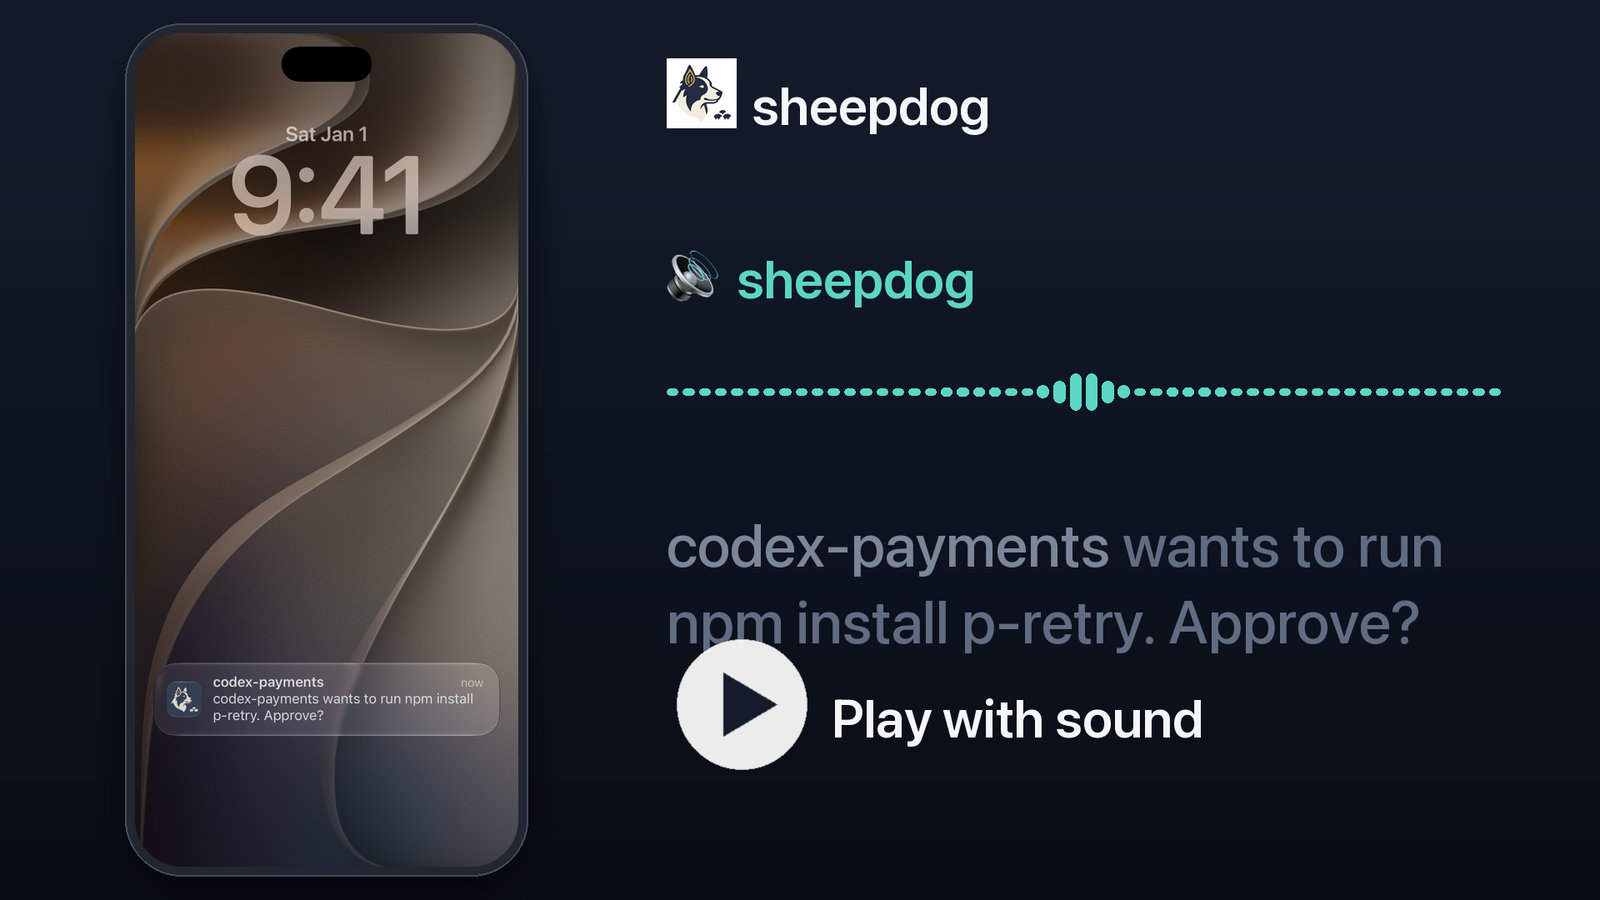
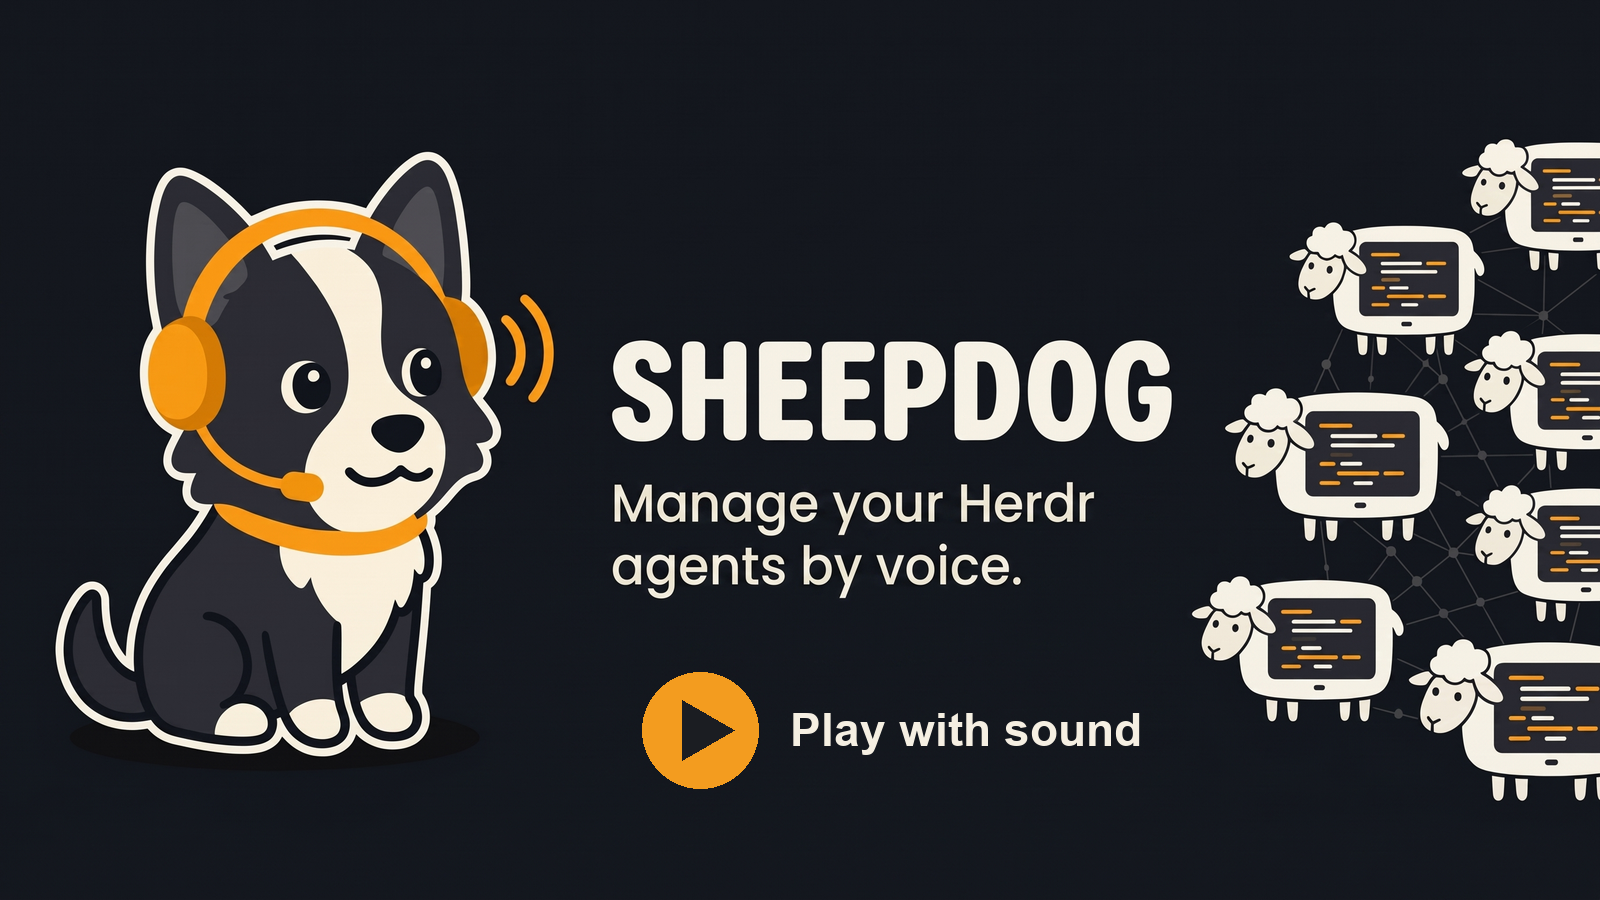
feat(brand): README and repo front door (brand refresh B)

diff --git a/README.md b/README.md
@@ -1,23 +1,25 @@
 <p align="center">
   <picture>
-    <source media="(prefers-color-scheme: dark)" srcset="https://github.com/kccarlos/herdr-sheepdog/raw/main/assets/logo-transparent.svg">
-    <img src="https://github.com/kccarlos/herdr-sheepdog/raw/main/assets/logo-solid.svg" alt="herdr-sheepdog logo" width="160" height="160">
+    <source media="(prefers-color-scheme: dark)" srcset="assets/brand/logo/sheepdog-logo-color.svg">
+    <img src="assets/brand/logo/sheepdog-logo-mono-ink.svg" alt="sheepdog logo" width="120" height="120">
   </picture>
 </p>
 
+<p align="center"><strong>sheepdog</strong></p>
+
 <p align="center">
-  <a href="#install">install</a> · <a href="docs/quick-start.md">quick start</a> · <a href="docs/README.md">docs</a> · <a href="docs/iphone-app.md">iPhone app</a>
+  <a href="#try-it-in-three-minutes">install</a> · <a href="docs/quick-start.md">quick start</a> · <a href="docs/README.md">docs</a> · <a href="docs/iphone-app.md">iPhone app</a>
 </p>
 
 <p align="center">
-  <a href="LICENSE"><img src="https://img.shields.io/badge/license-MIT-666666?labelColor=333333" alt="MIT license" /></a>
-  <a href="https://github.com/kccarlos/herdr-sheepdog/releases/latest"><img src="https://img.shields.io/github/v/release/kccarlos/herdr-sheepdog?label=release&labelColor=333333&color=666666" alt="latest release" /></a>
-  <a href="https://github.com/kccarlos/herdr-sheepdog/stargazers"><img src="https://img.shields.io/github/stars/kccarlos/herdr-sheepdog?labelColor=333333&color=666666&logo=github" alt="GitHub stars" /></a>
-  <a href="https://github.com/kccarlos/herdr-sheepdog/actions/workflows/ci.yml"><img src="https://img.shields.io/github/actions/workflow/status/kccarlos/herdr-sheepdog/ci.yml?branch=main&label=CI&labelColor=333333" alt="CI status" /></a>
-  <img src="https://img.shields.io/badge/platform-macOS%20%7C%20Linux-666666?labelColor=333333" alt="platform: macOS and Linux" />
-  <a href="https://herdr.dev/plugins/"><img src="https://img.shields.io/badge/herdr-plugin-666666?labelColor=333333" alt="herdr plugin" /></a>
+  <a href="LICENSE"><img src="https://img.shields.io/badge/license-MIT-8E929A?labelColor=1F1F22" alt="MIT license" /></a>
+  <a href="https://github.com/kccarlos/herdr-sheepdog/releases/latest"><img src="https://img.shields.io/github/v/release/kccarlos/herdr-sheepdog?label=release&labelColor=1F1F22&color=F39C1F" alt="latest release" /></a>
+  <a href="https://github.com/kccarlos/herdr-sheepdog/stargazers"><img src="https://img.shields.io/github/stars/kccarlos/herdr-sheepdog?labelColor=1F1F22&color=8E929A&logo=github" alt="GitHub stars" /></a>
+  <a href="https://github.com/kccarlos/herdr-sheepdog/actions/workflows/ci.yml"><img src="https://img.shields.io/github/actions/workflow/status/kccarlos/herdr-sheepdog/ci.yml?branch=main&label=CI&labelColor=1F1F22&color=8E929A" alt="CI status" /></a>
+  <img src="https://img.shields.io/badge/platform-macOS%20%7C%20Linux-8E929A?labelColor=1F1F22" alt="platform: macOS and Linux" />
+  <a href="https://herdr.dev/plugins/"><img src="https://img.shields.io/badge/herdr-plugin-F39C1F?labelColor=1F1F22" alt="herdr plugin" /></a>
   <!-- TESTFLIGHT_LINK: when the public link exists, wrap this badge in <a href="https://testflight.apple.com/join/..."> and restore the TestFlight link in "iPhone app" below and in docs/iphone-app.md. -->
-  <img src="https://img.shields.io/badge/iOS-TestFlight%20soon-666666?logo=apple&logoColor=white&labelColor=333333" alt="iOS TestFlight: public link coming soon" />
+  <img src="https://img.shields.io/badge/iOS-TestFlight%20soon-8E929A?logo=apple&logoColor=white&labelColor=1F1F22" alt="iOS TestFlight: public link coming soon" />
 </p>
 
 ---
@@ -40,7 +42,9 @@
 
 ---
 
-## install
+<a id="install"></a>
+
+## try it in three minutes
 
 **You need:** [herdr](https://github.com/herdrdev/herdr), macOS or Linux, a browser with a microphone, and one voice model plus one brain model. The simplest is **one free Gemini key** from <https://aistudio.google.com/apikey> ([other options →](docs/models.md)). The install downloads a prebuilt binary for Apple silicon Macs and x86-64 Linux; any other machine builds from source and needs [Go](https://go.dev/dl/).
 
@@ -82,3 +86,7 @@ If you are an AI agent working on this repository, read [`AGENTS.md`](AGENTS.md)
 ## license
 
 sheepdog is licensed under the [MIT License](LICENSE). Security reports: [SECURITY.md](SECURITY.md).
+
+## why a sheepdog
+
+sheepdog is a border collie wearing a headset: it sits between you and your flock of coding agents, listens to them and talks to you. The whole look comes from that one picture; see [docs/dev/brand.md](docs/dev/brand.md).

diff --git a/BRAND-QUESTIONS.md b/BRAND-QUESTIONS.md
@@ -2,7 +2,7 @@
 
 Raised by workstream A (tokens and shared assets). Each has a default that is already in the PR.
 
-1. **Old `assets/logo-solid.svg` and `assets/logo-transparent.svg`.** Kept as files; the README, `ios/README.md` and the `scripts/readme-media/*` scripts still use them (workstream B). Nothing in `web/` uses them any more. Can they be deleted once B and the media scripts move to `assets/brand/logo/`?
+1. **Old `assets/logo-solid.svg` and `assets/logo-transparent.svg`.** Kept as files; B moved the README and `ios/README.md` to `assets/brand/logo/`. Still using the old files: `scripts/readme-media/launch/make.sh` and `hero/make.sh` (`assets/logo-transparent.svg`), and `ios/assets/logo-*.svg` (its own copies, now unreferenced by `ios/README.md`). Nothing in `web/` uses them any more. Can they be deleted once B and the media scripts move to `assets/brand/logo/`?
 2. **User bubble text on the accent (iOS).** With `AccentColor` orange, the white text on the user's bubble in `ConversationView` failed 4.5:1, so this PR makes that one line use a new `OnAccent` colour (ink). Workstream E may fold it into `Theme.swift`.
 3. **Accent as text on light surfaces (iOS).** `ModelsView` and `AgentScreenView` draw `Color.accentColor` as a foreground (icons, the send arrow). `AccentColor` light is `#D98718`, about 2.7:1 on white, fine for glyphs and large controls but below 4.5:1 for words. Is a `primaryText` colourset (`#8A5700` / `#F5B83D`, already in `colors.json`) wanted for any text drawn in the accent? Left for E.
 4. **`/debug` swimlane keeps red for blocked.** Both the agent state "blocked" and errors use `--danger` for now, so the page looks as before. D flips the state to `--blocked` (amber) and keeps `--danger` for errors.
@@ -13,3 +13,6 @@ Raised by workstream A (tokens and shared assets). Each has a default that is al
 9. **Header logo.** The three pages now show `logo-color.svg` in both modes (the old picture swapped a solid and a transparent file). D replaces it with the shared mono header.
 10. **Favicons.** `favicon.svg` is the mono logo with ink/cream by colour scheme; the 32px and 180px PNGs are the cream mono logo on `#1B1D22`. The 180px has 14% padding. Want a different crop?
 11. **`internal/web/auth_test.go`** requests `/static/logo-color.svg` now; the one line the CEO allowed.
+12. **Launch video not re-rendered (B).** Only `assets/readme/launch-poster.png` was regenerated (banner framing plus a play button); `assets/readme/launch.mp4` and its lock-screen frames still use the old look. Re-render when the media scripts move to the new logos?
+13. **Social preview upload (B).** `assets/brand/social-preview.png` (1280x640) is in the repo; a maintainer has to upload it in Settings, General, Social preview.
+14. **Poster background (B).** The banner's own background is about `#14171E`, not `#1B1D22`; the poster keeps the banner pixels so the flock and dog are untouched. Flatten to `#1B1D22`?

diff --git a/ios/README.md b/ios/README.md
@@ -1,7 +1,7 @@
 <p align="center">
   <picture>
-    <source media="(prefers-color-scheme: dark)" srcset="assets/logo-transparent.svg">
-    <img src="assets/logo-solid.svg" alt="Sheepdog logo" width="160" height="160">
+    <source media="(prefers-color-scheme: dark)" srcset="../assets/brand/logo/sheepdog-logo-mono-cream.svg">
+    <img src="../assets/brand/logo/sheepdog-logo-mono-ink.svg" alt="sheepdog logo" width="96" height="96">
   </picture>
 </p>
 

diff --git a/docs/README.md b/docs/README.md
@@ -1,3 +1,10 @@
+<p align="center">
+  <picture>
+    <source media="(prefers-color-scheme: dark)" srcset="../assets/brand/logo/sheepdog-logo-mono-cream.svg">
+    <img src="../assets/brand/logo/sheepdog-logo-mono-ink.svg" alt="sheepdog logo" width="96" height="96">
+  </picture>
+</p>
+
 # Documentation
 
 For people who use sheepdog. Start with the quick start.
